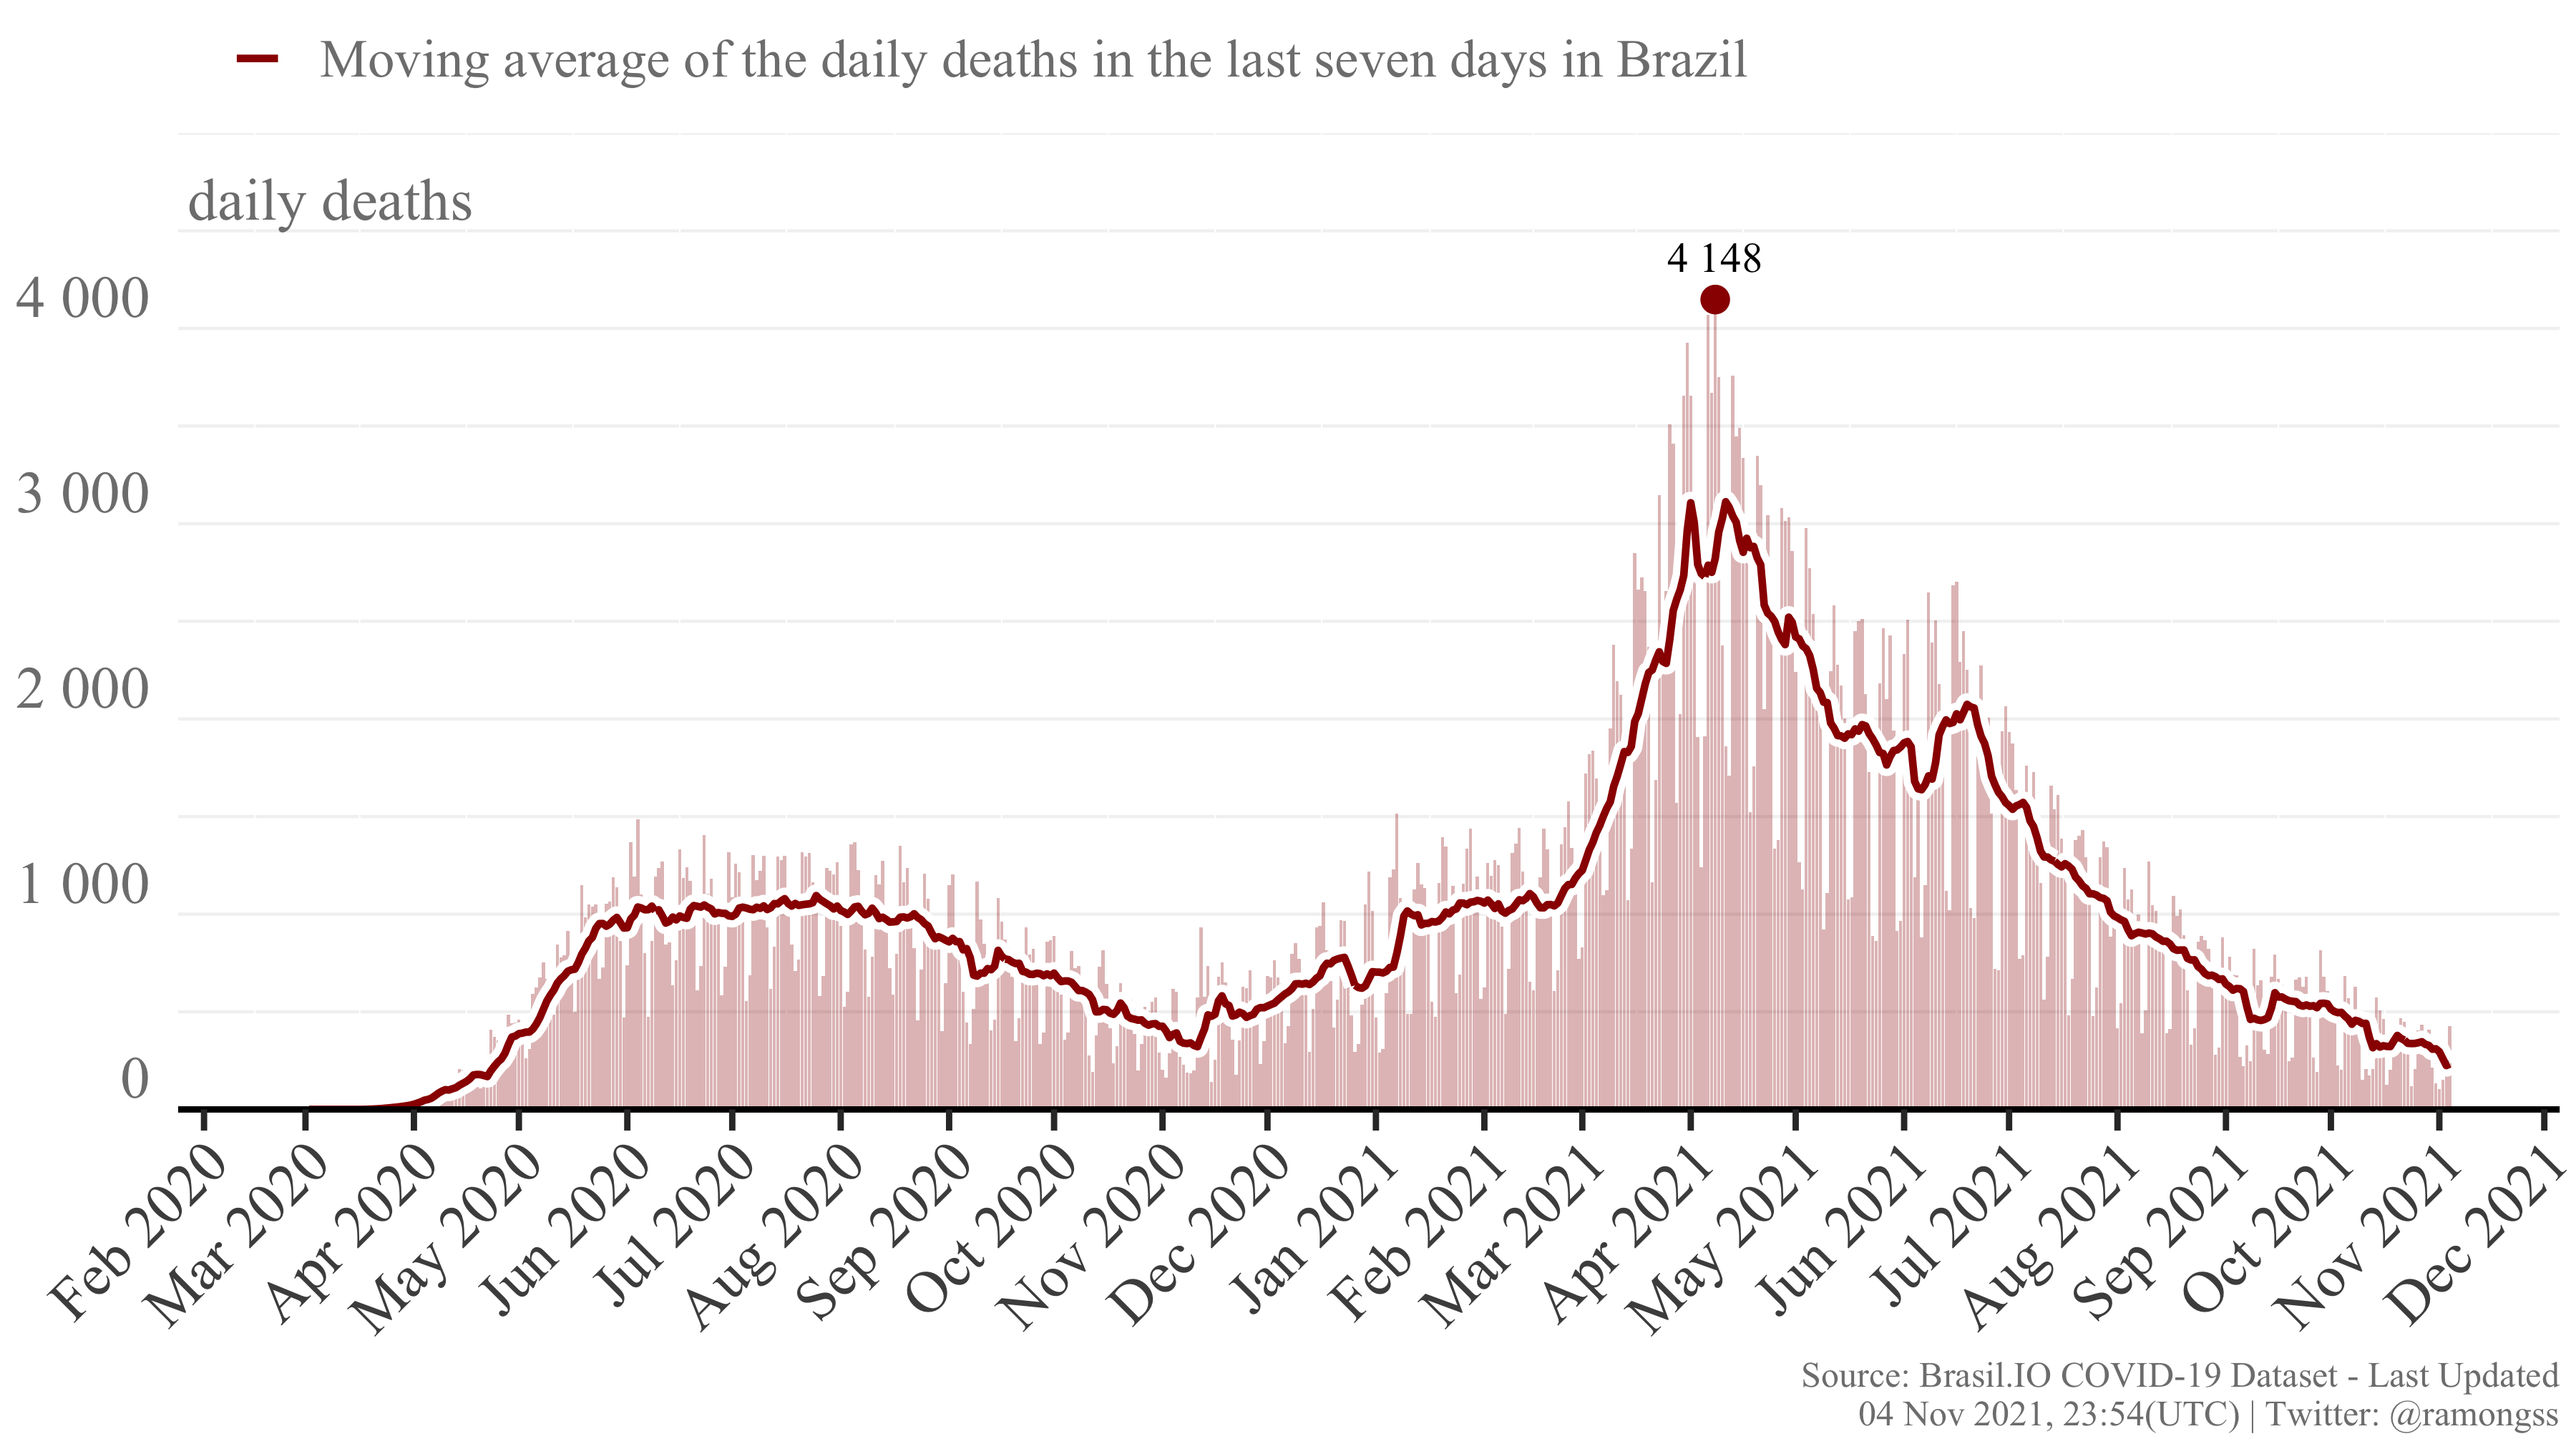
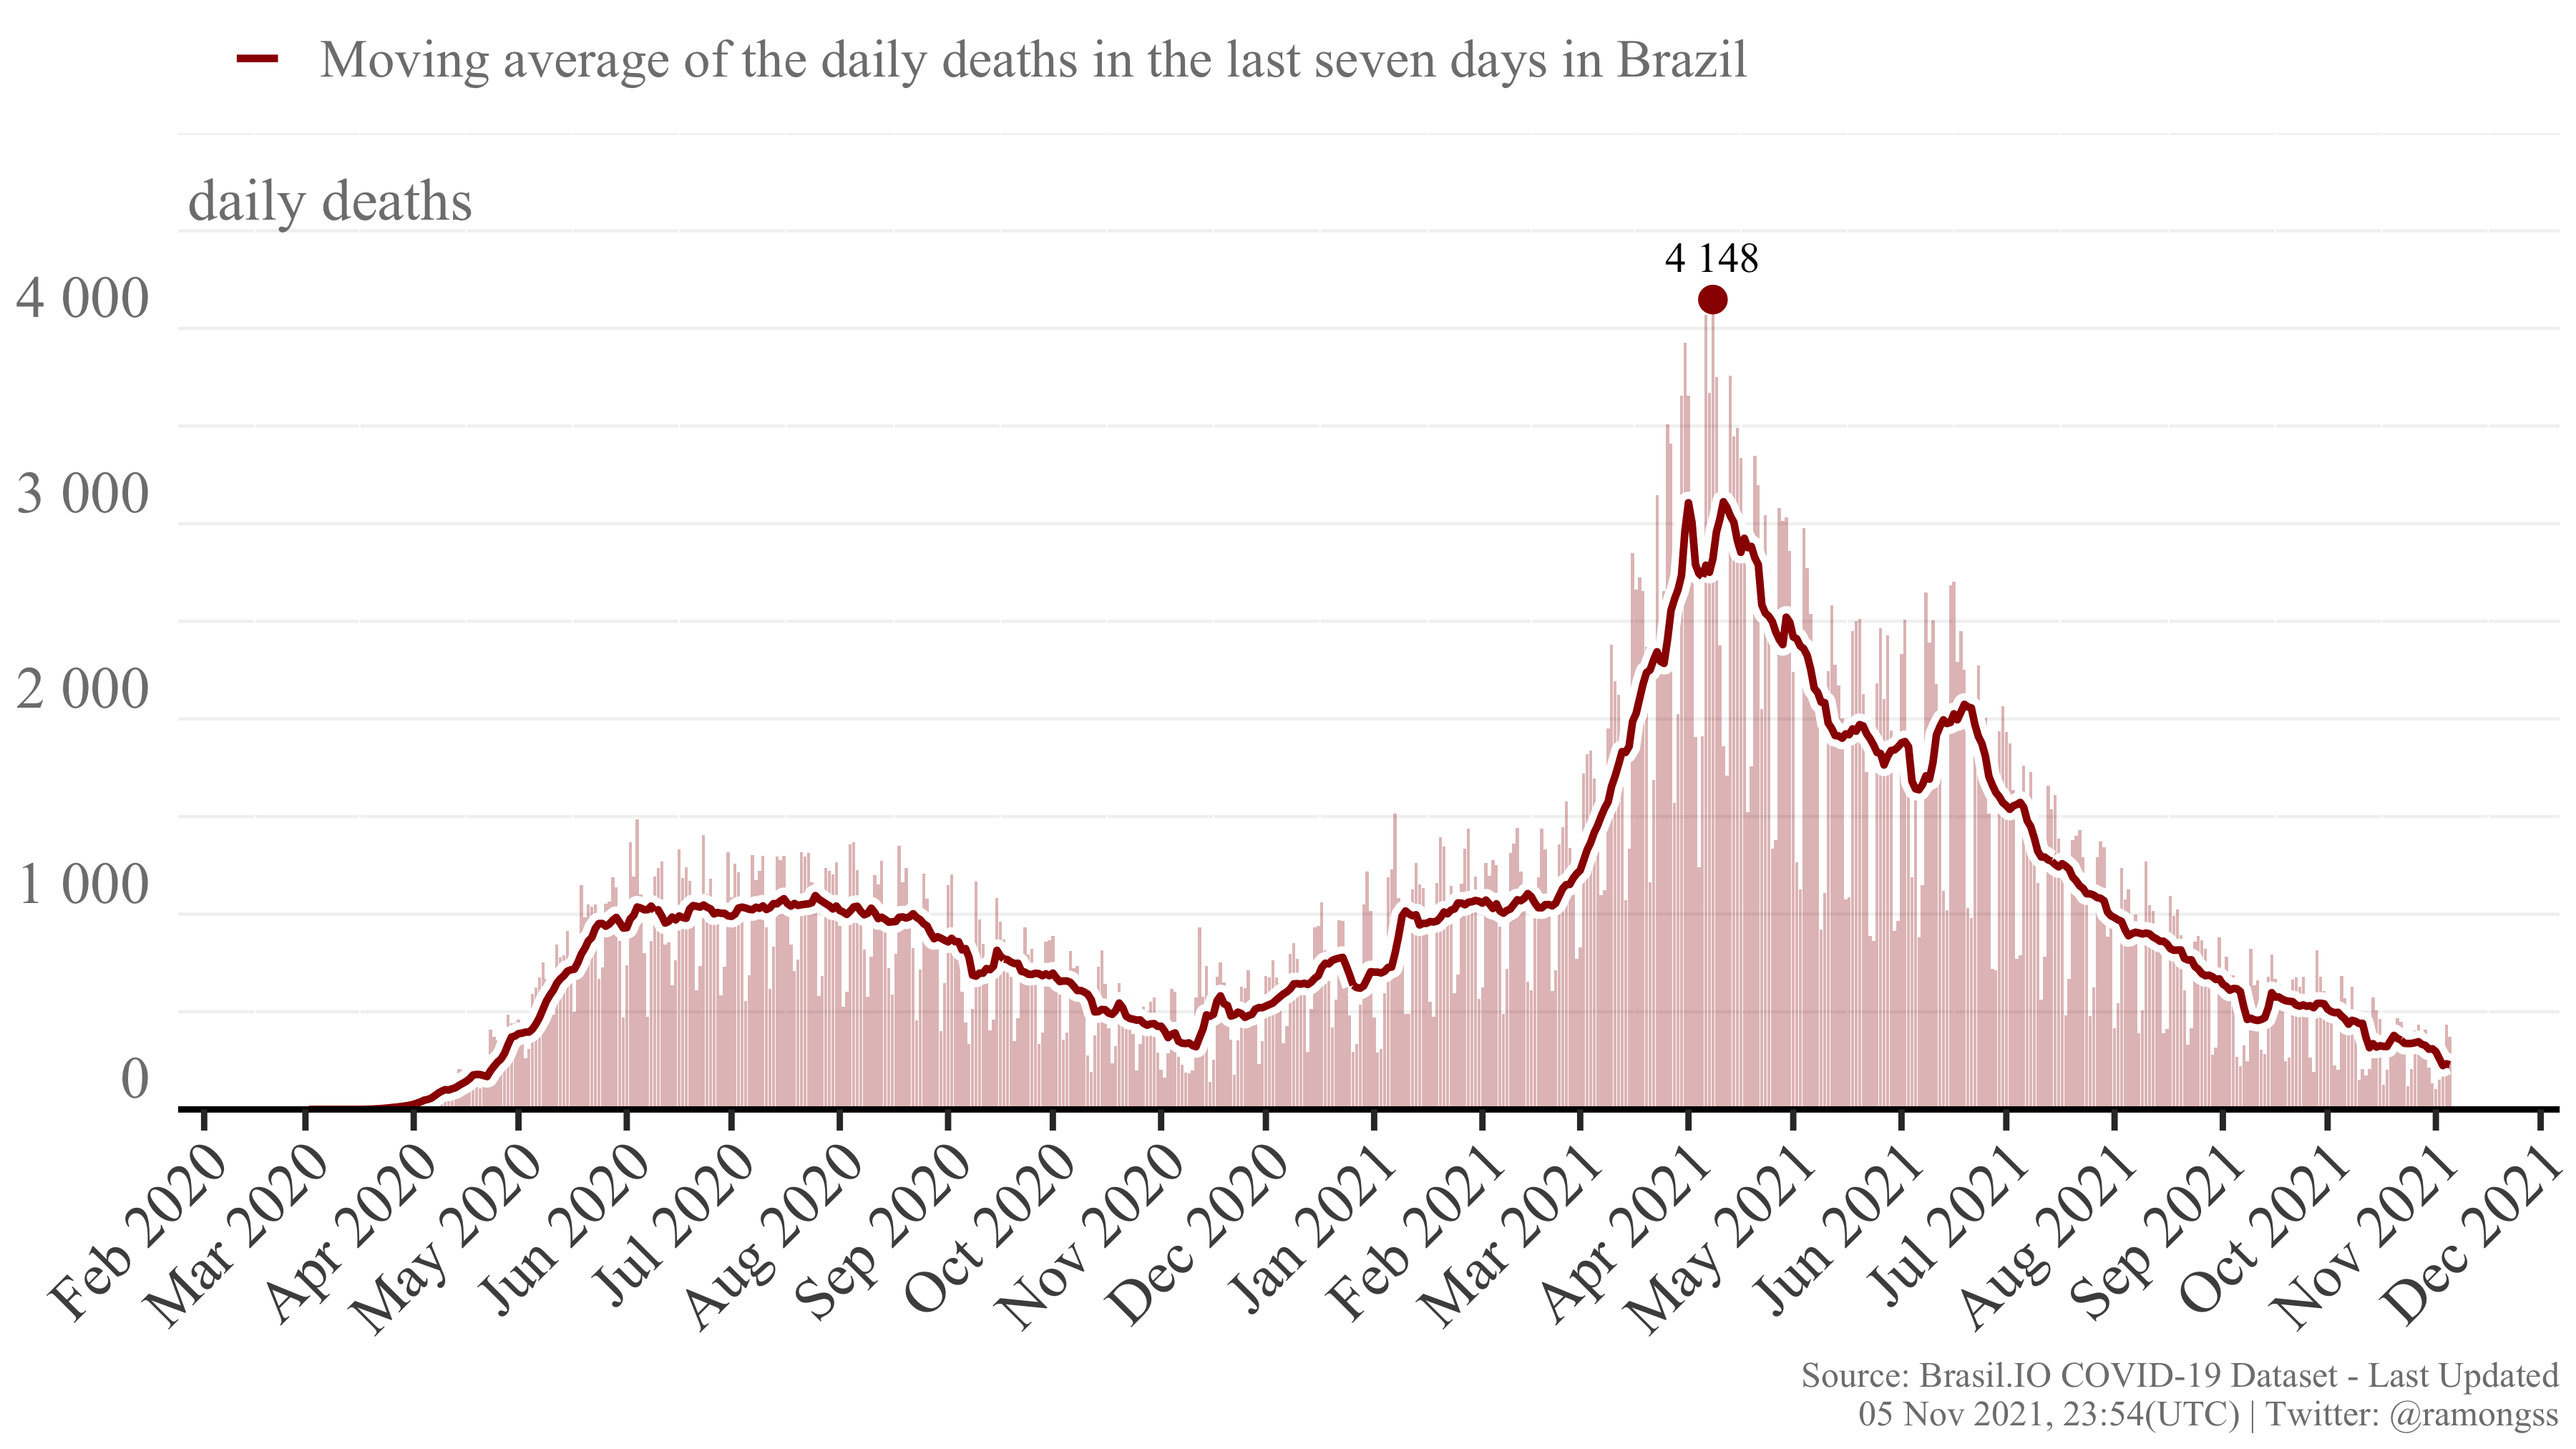
Re-build README.Rmd

diff --git a/README.md b/README.md
@@ -27,8 +27,8 @@ download_brasilio_table <- function(dataset = "covid19", table_name){
 
 ## COVID-19 Confirmed cases
 
-Currently, Brazil has a total of **21,853,837** confirmed cases at **04
-Nov, 2021**, with **12,362** new confirmed cases. The daily maximum
+Currently, Brazil has a total of **21,867,430** confirmed cases at **05
+Nov, 2021**, with **12,708** new confirmed cases. The daily maximum
 incidence was **124,878** confirmed cases at **18 Sep, 2021**. Here
 follows the Figure showing the confirmed case incidence as the bars, and
 the line as the moving average of the last 7 days.
@@ -37,8 +37,8 @@ the line as the moving average of the last 7 days.
 
 ## COVID-19 Deaths
 
-Currently, Brazil has a total of **608,952** deaths at **04 Nov, 2021**,
-with **425** new deaths. The daily maximum deaths incidence was
+Currently, Brazil has a total of **609,334** deaths at **05 Nov, 2021**,
+with **373** new deaths. The daily maximum deaths incidence was
 **4,148** deaths at **08 Apr, 2021**. Here follows the Figure showing
 the deaths incidence as the bars, and the line as the moving average of
 the last 7 days.
@@ -49,4 +49,4 @@ the last 7 days.
 
 This page is daily updated automatically using Github Actions.
 
-*Last update: 04 Nov 2021, 23:54 (UTC).*
+*Last update: 05 Nov 2021, 23:54 (UTC).*
